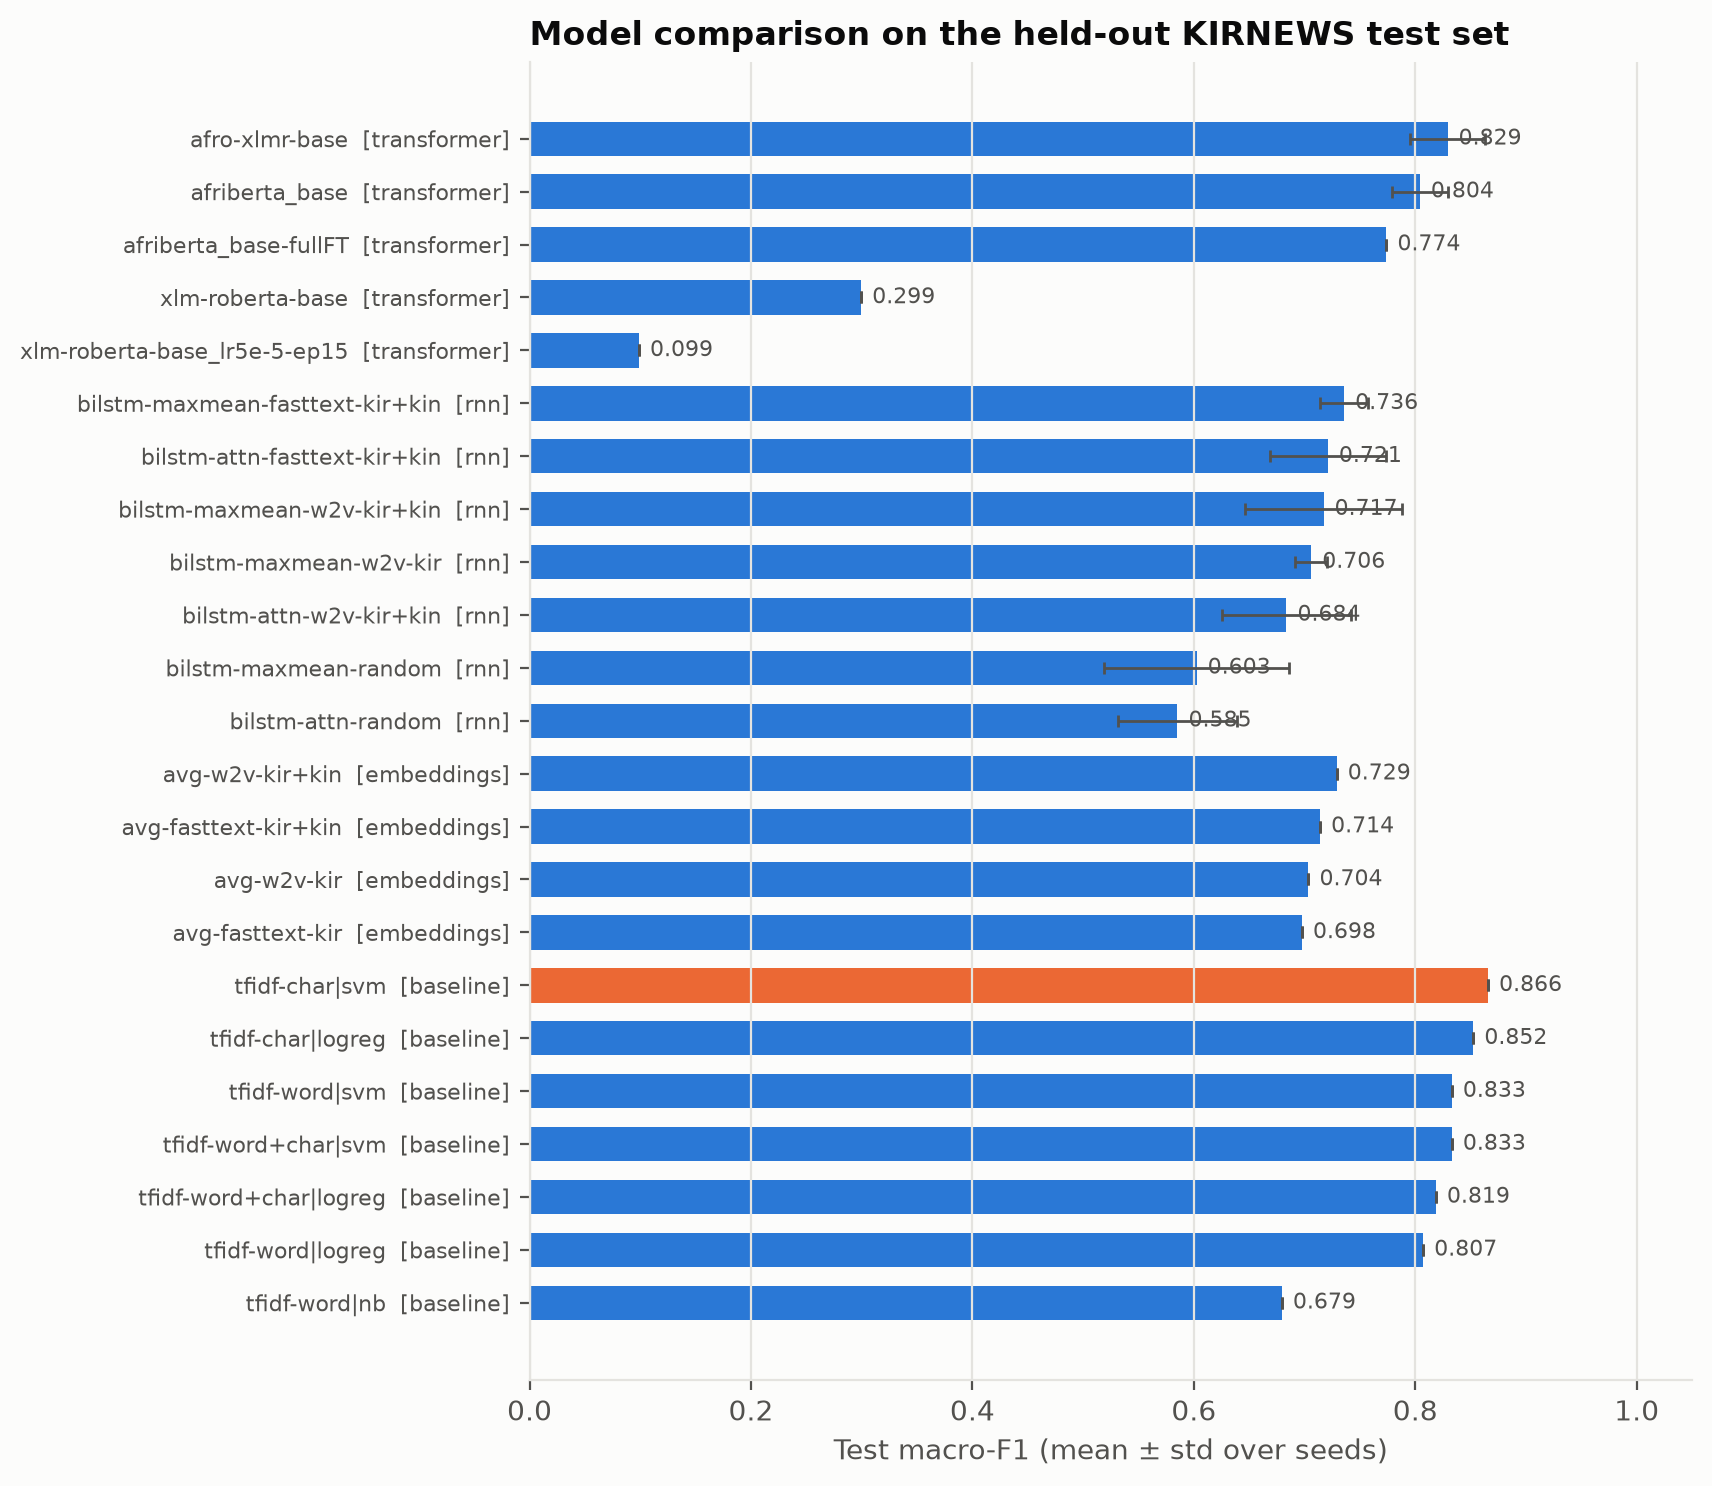
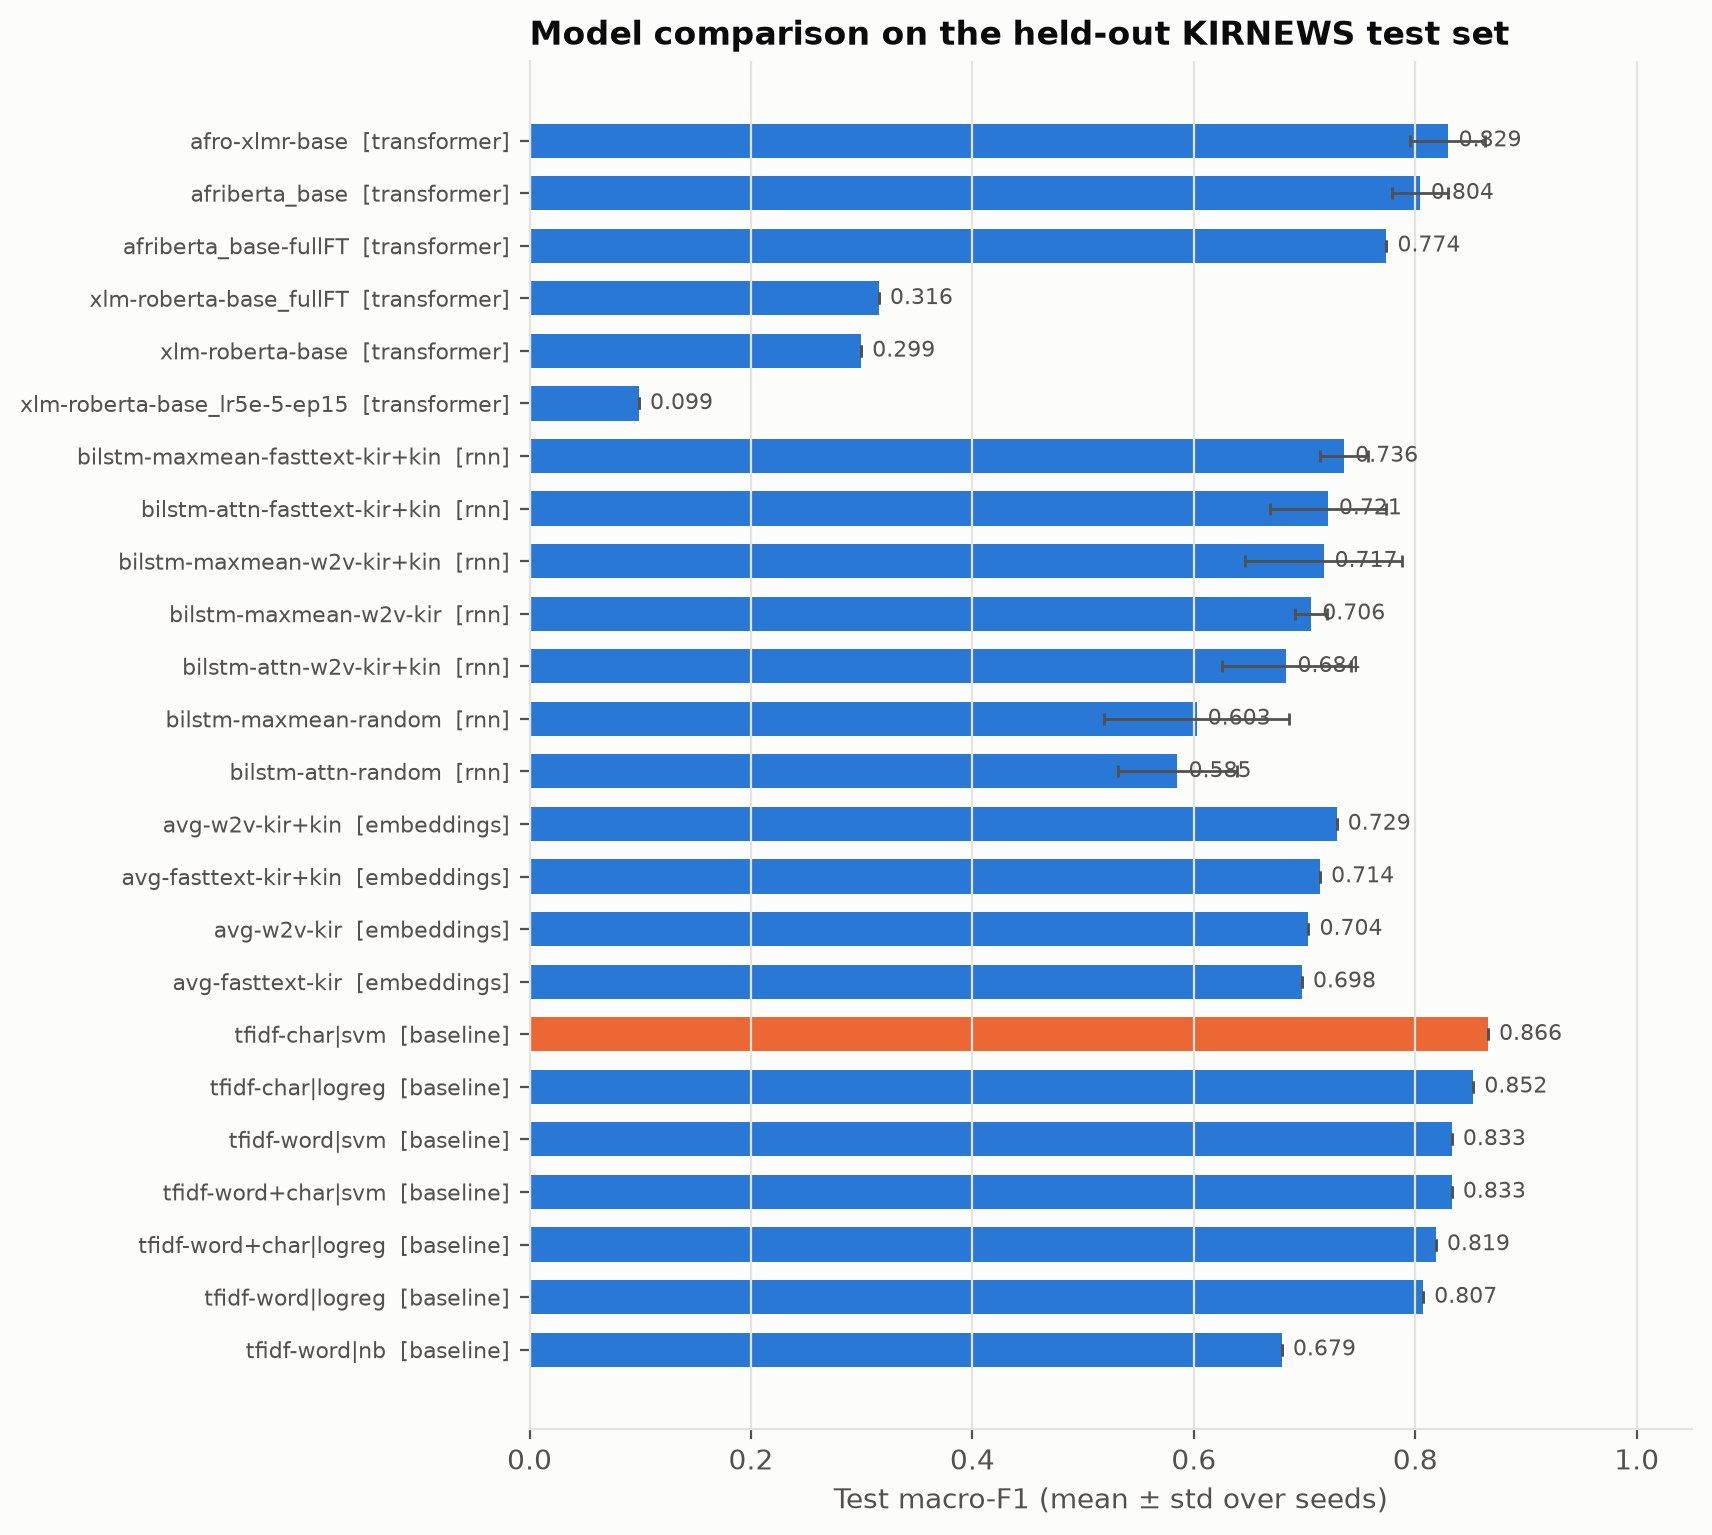
Final experiments (XLM-R full FT, cross-lingual + OOD baselines), report with all results, README results and links

diff --git a/src/crosslingual.py b/src/crosslingual.py
@@ -52,6 +52,17 @@ def main() -> None:
     # 2. Kinyarwanda -> Kirundi
     kin = pd.read_csv(PROC_DIR / "kinnews_unique.csv")
     kin = kin[kin.label_name.isin(labels)]
+
+    # Leakage check: a Kinyarwanda version of the same story as a Kirundi test article
+    # would not be caught by exact de-duplication. Measure the max char-n-gram cosine
+    # similarity of each Kirundi test article to any KINNEWS article.
+    from sklearn.feature_extraction.text import TfidfVectorizer
+    vec = TfidfVectorizer(analyzer="char_wb", ngram_range=(3, 5), min_df=2, sublinear_tf=True).fit(
+        pd.concat([kin.text, Xte]))
+    sim = (vec.transform(Xte) @ vec.transform(kin.text).T).max(axis=1).toarray().ravel()
+    out["kin_to_test_max_similarity"] = round(float(sim.max()), 3)
+    out["test_articles_with_kin_neighbour_above_0.6"] = int((sim > 0.6).sum())
+    print(f"Leakage check: max similarity of a Kirundi test article to KINNEWS = {sim.max():.3f}")
     cfg = "char|svm"  # best TF-IDF family on 5-fold CV
     for name, (X, y) in {
         "zero-shot (train: Kinyarwanda only)": (kin.text, kin.label_name),
@@ -61,8 +72,14 @@ def main() -> None:
         pipe = build(cfg, Cs[cfg]).fit(X, y)
         m = compute_metrics(yte, pipe.predict(Xte))
         log_experiment("crosslingual", f"tfidf-{cfg} {name}", {"C": Cs[cfg], "n_train": len(X)}, "test", m)
-        out["crosslingual"][name] = {**m, "n_train": len(X)}
-        print(f"XLING {name:42s} n={len(X):6d} acc={m['accuracy']:.3f} macro-F1={m['macro_f1']:.3f}")
+        po = pipe.predict(ood.text)
+        m_ood = compute_metrics(ood.label_name, po)
+        m_ood["macro_f1"] = round(f1_score(ood.label_name, po, labels=ood_labels, average="macro", zero_division=0), 4)
+        log_experiment("crosslingual", f"tfidf-{cfg} {name}", {"C": Cs[cfg], "n_train": len(X)}, "ood", m_ood)
+        out["crosslingual"][name] = {**m, "n_train": len(X), "ood_accuracy": m_ood["accuracy"],
+                                     "ood_macro_f1": m_ood["macro_f1"]}
+        print(f"XLING {name:42s} n={len(X):6d} acc={m['accuracy']:.3f} macro-F1={m['macro_f1']:.3f} "
+              f"| OOD acc={m_ood['accuracy']:.3f} macro-F1={m_ood['macro_f1']:.3f}")
 
     with open(RESULTS_DIR / "crosslingual_and_ood_baselines.json", "w") as f:
         json.dump(out, f, indent=2)

diff --git a/src/summarize.py b/src/summarize.py
@@ -61,9 +61,12 @@ def main() -> None:
     lines.append("OOD scores for Transformers are from the seed-42 model.")
     xl = df[df.family == "crosslingual"]
     if len(xl):
-        lines += ["", "| Cross-lingual (TF-IDF char SVM) | n train | Accuracy | Macro-F1 |", "|---|---|---|---|"]
-        for _, r in xl.iterrows():
-            lines.append(f"| {r.model.split(' ', 1)[1]} | {json.loads(r.config)['n_train']} | {r.accuracy:.3f} | {r.macro_f1:.3f} |")
+        lines += ["", "| Cross-lingual (TF-IDF char SVM) | n train | Test acc | Test macro-F1 | OOD acc | OOD macro-F1 |",
+                  "|---|---|---|---|---|---|"]
+        for model, g in xl.groupby("model", sort=False):
+            t, o = g[g.split == "test"].iloc[-1], g[g.split == "ood"].iloc[-1]
+            lines.append(f"| {model.split(' ', 1)[1]} | {json.loads(t.config)['n_train']} | {t.accuracy:.3f} | "
+                         f"{t.macro_f1:.3f} | {o.accuracy:.3f} | {o.macro_f1:.3f} |")
     (RESULTS_DIR / "summary_table.md").write_text("\n".join(lines) + "\n")
     print("\n".join(lines))
 

diff --git a/README.md b/README.md
@@ -8,14 +8,18 @@ technology, environment, culture.
 ## Project links
 | | |
 |---|---|
-| **Live system** | <!--SPACE_URL--> _being deployed_ |
-| **Fine-tuned model** | <!--MODEL_URL--> _being uploaded_ |
+| **Live system** | https://huggingface.co/spaces/ReneNtabana/kirundi-news-classifier (runs in your browser; first load downloads ~280 MB) |
+| **Fine-tuned model** | https://huggingface.co/ReneNtabana/kirundi-news-classifier |
 | **Demo video** | _TBD_ |
 | **Report (PDF)** | [`report/report.pdf`](report/report.pdf) |
 
 ## Summary
-<!--RESULTS_SUMMARY-->
-_Results are filled in once all experiments have finished._
+* The official KIRNEWS split **leaks its entire test set into training**. We rebuilt a clean split (1,742 articles, 10 classes).
+* **Final model: AfroXLMR-base**, test accuracy **0.910 ± 0.012**, macro-F1 **0.829 ± 0.034** (3 seeds). Out-of-distribution
+  (BBC Gahuza, MasakhaNEWS): **0.872** accuracy, vs. 0.80 for the best TF-IDF model.
+* A char-n-gram SVM is just as strong in-domain, and **adding Kinyarwanda training data** gives the best in-domain macro-F1 (0.888).
+* XLM-R, which has the same architecture but no African-language pre-training, fails under the same budget (macro-F1 0.30).
+* The model is over-confident and cannot reject unseen topics. The app flags predictions below 0.9 confidence.
 
 ## Problem and motivation
 Kirundi has very few NLP resources. Before this project it had a single public labelled topic
@@ -49,13 +53,32 @@ Details: [`results/data_stats.json`](results/data_stats.json), EDA figures in [`
 | Static embeddings | Word2Vec & FastText (skip-gram, 200-d) trained on Kirundi or Kirundi+Kinyarwanda; mean-pooled + LogReg | [`src/embeddings.py`](src/embeddings.py) |
 | RNN | BiLSTM with max+mean or additive-attention pooling; random vs pretrained embedding init | [`src/lstm.py`](src/lstm.py) |
 | Transformers | Fine-tuned AfriBERTa-base, AfroXLMR-base, XLM-R-base (class-weighted loss, frozen word embeddings) | [`src/finetune.py`](src/finetune.py) |
+| Cross-lingual | Kinyarwanda→Kirundi zero-shot and augmented training; OOD test on MasakhaNEWS | [`src/crosslingual.py`](src/crosslingual.py), [`src/ood.py`](src/ood.py) |
 
 Model selection always uses the validation set. The test set is used once per final configuration.
 The primary metric is **macro-F1** because of the 24:1 class imbalance. Multi-seed results report mean ± std.
 
 ## Results
-<!--RESULTS_TABLE-->
-_See [`results/summary_table.md`](results/summary_table.md) (generated by `python -m src.summarize`)._
+Held-out KIRNEWS test set (262 articles) and out-of-distribution MasakhaNEWS-run (1,525 articles, 5 classes).
+Mean ± std over 3 seeds where shown. Full table: [`results/summary_table.md`](results/summary_table.md).
+
+| Model | Test accuracy | Test macro-F1 | OOD accuracy | OOD macro-F1 |
+|---|---|---|---|---|
+| Majority class | 0.351 | 0.052 | – | – |
+| TF-IDF word+char + SVM (val-selected) | 0.908 | 0.833 | 0.800 | 0.721 |
+| TF-IDF char + SVM | 0.912 | 0.866 | 0.803 | 0.729 |
+| TF-IDF char + SVM, + Kinyarwanda training data | 0.912 | **0.888** | 0.815 | 0.758 |
+| Avg. Word2Vec (kir+kin) + LogReg | 0.840 | 0.729 | – | – |
+| BiLSTM, random init | 0.785 ± 0.025 | 0.603 ± 0.084 | – | – |
+| BiLSTM, FastText (kir+kin) init | 0.859 ± 0.019 | 0.736 ± 0.021 | – | – |
+| XLM-R-base | 0.569 | 0.299 | 0.466 | 0.350 |
+| AfriBERTa-base | 0.893 ± 0.014 | 0.804 ± 0.025 | 0.830 | 0.753 |
+| **AfroXLMR-base (deployed)** | **0.910 ± 0.012** | 0.829 ± 0.034 | **0.872** | **0.799** |
+
+![Model comparison](results/figures/model_comparison.png)
+
+The error analysis (confusions, label noise, source confounds, calibration, unseen topics) is in
+[`results/error_analysis/`](results/error_analysis/) and Section 7 of the report.
 
 ## Repository layout
 ```
@@ -70,8 +93,11 @@ src/
   ood.py             out-of-distribution test on MasakhaNEWS-run
   error_analysis.py  misclassifications, confusion pairs, length/OOV/source analysis, unseen inputs
   summarize.py       aggregate results into tables/figures for the report
+  crosslingual.py    Kinyarwanda->Kirundi transfer + OOD for all TF-IDF models
+  export_onnx.py     int8 ONNX export for the browser app, with verification
   predict.py         inference (CLI and shared by the evaluation scripts)
-app/                 Gradio web app (deployed as a Hugging Face Space)
+web/                 deployed web app (static HF Space; transformers.js runs the ONNX model in the browser)
+app/                 Gradio version of the app for running the full-precision model locally
 scripts/             run helpers
 results/             metrics, tables, figures (all numbers in the report come from here)
 report/              report source and PDF
@@ -90,12 +116,26 @@ python -m src.baselines       # TF-IDF baselines           (~5 min)
 python -m src.embeddings      # Word2Vec / FastText        (~20 min)
 python -m src.lstm            # BiLSTMs, 3 seeds           (~3 h on CPU)
 scripts/run_transformers.sh   # 3 Transformers, seed 42    (~2.5 h on M1 GPU)
+scripts/run_extra.sh          # extra seeds + XLM-R ablations
 python -m src.ood             # MasakhaNEWS-run OOD test
+python -m src.crosslingual    # Kinyarwanda transfer + OOD for TF-IDF models
 python -m src.error_analysis --model models/ft-<best>
 python -m src.summarize       # tables + comparison figure
+python -m src.export_onnx     # ONNX export for the web app
+python report/build_pdf.py    # report PDF (needs Google Chrome)
 pytest -q
 ```
-Run the app locally: `MODEL_ID=models/ft-<best> python app/app.py`.
+Exact package versions: [`requirements-lock.txt`](requirements-lock.txt).
+
+**Run the app locally:** `cd web && python -m http.server 8000` and open http://localhost:8000 (browser version),
+or `MODEL_ID=models/ft-afro-xlmr-base python app/app.py` (Gradio, full-precision model).
+
+**Use the model in Python:**
+```python
+from transformers import pipeline
+clf = pipeline("text-classification", model="ReneNtabana/kirundi-news-classifier")
+print(clf("intamba mu rugamba yatsinze umukino w'umupira w'amaguru"))
+```
 
 ## Acknowledgements and licences
 * KINNEWS/KIRNEWS: Niyongabo, Hong, Kreutzer & Huang (2020), MIT licence.

diff --git a/results/summary_table.md b/results/summary_table.md
@@ -1,13 +1,13 @@
 | Family | Model | Config | Seeds | Accuracy | Macro-F1 | 5-fold CV F1 | OOD Acc | OOD Macro-F1 |
 |---|---|---|---|---|---|---|---|---|
 | baseline | majority |  | 1 | 0.351 | 0.052 |  |  |  |
-| baseline | tfidf-word|nb | C=0.003 | 1 | 0.866 | 0.679 | 0.700 |  |  |
-| baseline | tfidf-word|logreg | C=0.3 | 1 | 0.897 | 0.807 | 0.760 |  |  |
-| baseline | tfidf-word+char|logreg | C=0.3 | 1 | 0.901 | 0.819 | 0.776 |  |  |
-| baseline | tfidf-word+char|svm | C=0.1 | 1 | 0.908 | 0.833 | 0.805 |  |  |
-| baseline | tfidf-word|svm | C=0.1 | 1 | 0.905 | 0.833 | 0.773 |  |  |
-| baseline | tfidf-char|logreg | C=0.3 | 1 | 0.901 | 0.852 | 0.789 |  |  |
-| baseline | tfidf-char|svm | C=0.3 | 1 | 0.912 | 0.866 | 0.806 |  |  |
+| baseline | tfidf-word|nb | C=0.003 | 1 | 0.866 | 0.679 | 0.700 | 0.790 | 0.675 |
+| baseline | tfidf-word|logreg | C=0.3 | 1 | 0.897 | 0.807 | 0.760 | 0.741 | 0.652 |
+| baseline | tfidf-word+char|logreg | C=0.3 | 1 | 0.901 | 0.819 | 0.776 | 0.771 | 0.684 |
+| baseline | tfidf-word+char|svm | C=0.1 | 1 | 0.908 | 0.833 | 0.805 | 0.800 | 0.721 |
+| baseline | tfidf-word|svm | C=0.1 | 1 | 0.905 | 0.833 | 0.773 | 0.772 | 0.673 |
+| baseline | tfidf-char|logreg | C=0.3 | 1 | 0.901 | 0.852 | 0.789 | 0.757 | 0.696 |
+| baseline | tfidf-char|svm | C=0.3 | 1 | 0.912 | 0.866 | 0.806 | 0.803 | 0.729 |
 | embeddings | avg-fasttext-kir | C=0.1 | 1 | 0.821 | 0.698 |  |  |  |
 | embeddings | avg-w2v-kir | C=0.1 | 1 | 0.844 | 0.704 |  |  |  |
 | embeddings | avg-fasttext-kir+kin | C=0.3 | 1 | 0.851 | 0.714 |  |  |  |
@@ -21,8 +21,15 @@
 | rnn | bilstm-maxmean-fasttext-kir+kin | lr=0.002, max_len=400 | 3 | 0.859 ± 0.019 | 0.736 ± 0.021 |  |  |  |
 | transformer | xlm-roberta-base_lr5e-5-ep15 | lr=5e-05, max_len=512 | 1 | 0.252 | 0.099 |  |  |  |
 | transformer | xlm-roberta-base | lr=3e-05, max_len=512 | 1 | 0.569 | 0.299 |  | 0.466 | 0.350 |
+| transformer | xlm-roberta-base_fullFT | lr=3e-05, max_len=512 | 1 | 0.687 | 0.316 |  |  |  |
 | transformer | afriberta_base-fullFT | lr=3e-05, max_len=512 | 1 | 0.893 | 0.774 |  | 0.830 | 0.755 |
 | transformer | afriberta_base | lr=3e-05, max_len=512 | 3 | 0.893 ± 0.014 | 0.804 ± 0.025 |  | 0.830 | 0.753 |
 | transformer | afro-xlmr-base | lr=3e-05, max_len=512 | 3 | 0.910 ± 0.012 | 0.829 ± 0.034 |  | 0.872 | 0.799 |
 
 OOD scores for Transformers are from the seed-42 model.
+
+| Cross-lingual (TF-IDF char SVM) | n train | Test acc | Test macro-F1 | OOD acc | OOD macro-F1 |
+|---|---|---|---|---|---|
+| zero-shot (train: Kinyarwanda only) | 9904 | 0.824 | 0.730 | 0.800 | 0.745 |
+| augmented (train: Kirundi + Kinyarwanda) | 11123 | 0.912 | 0.888 | 0.815 | 0.758 |
+| monolingual (train: Kirundi only) | 1219 | 0.912 | 0.866 | 0.803 | 0.729 |
